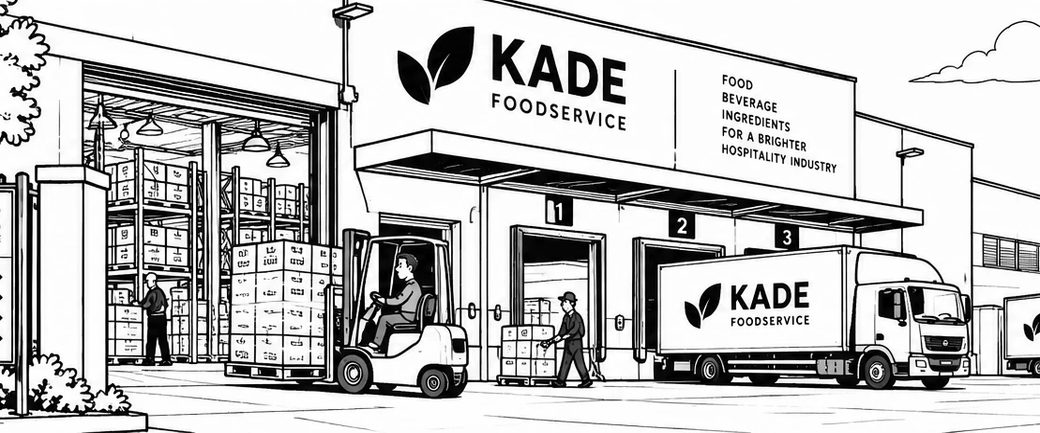
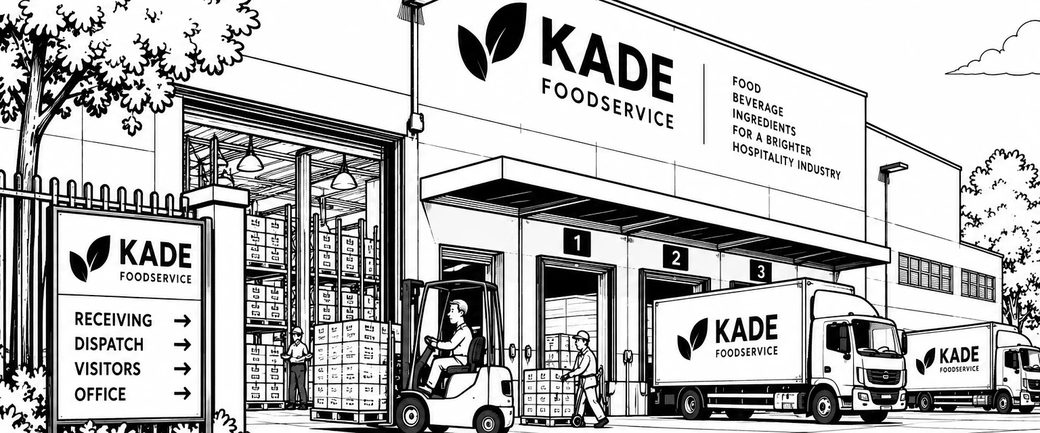
Slide 3: re-crop Kade from the full B&W drawing; keep full originals
Adds assets/places/*-full.jpg for reuse in the prototype and later slides;
image URLs are versioned so browsers pick up the new crop.

Claude-Session: https://claude.ai/code/session_01Pii9GCWfhHRh6X8NRegDPg

diff --git a/deck/index.html b/deck/index.html
@@ -8,7 +8,7 @@
   <link rel="preconnect" href="https://fonts.googleapis.com">
   <link rel="preconnect" href="https://fonts.gstatic.com" crossorigin>
   <link href="https://fonts.googleapis.com/css2?family=Instrument+Serif:ital@1&family=Inter+Tight:wght@400;500&family=Inter:wght@400;500;600;700&display=swap" rel="stylesheet">
-  <link rel="stylesheet" href="deck.css?v=20261028g">
+  <link rel="stylesheet" href="deck.css?v=20261028h">
 </head>
 <body>
 
@@ -71,7 +71,7 @@
   <!-- 3 · Actors -->
   <section class="slide s-actors">
     <div class="place">
-      <img class="scene" src="../assets/places/olive-tree.jpg" alt="The Olive Tree restaurant, line drawing">
+      <img class="scene" src="../assets/places/olive-tree.jpg?v=2" alt="The Olive Tree restaurant, line drawing">
       <h3>The Olive Tree</h3>
       <div class="cast">
         <figure><div class="face"><img src="../assets/personas/priya.png" alt=""></div><figcaption>Priya<span>Buyer</span></figcaption></figure>
@@ -79,7 +79,7 @@
       </div>
     </div>
     <div class="place">
-      <img class="scene" src="../assets/places/kade.jpg" alt="Kade Foodservice warehouse, line drawing">
+      <img class="scene" src="../assets/places/kade.jpg?v=2" alt="Kade Foodservice warehouse, line drawing">
       <h3>Kade Foodservice <span class="runs">runs on Sana</span></h3>
       <div class="cast">
         <figure><div class="face agent"><svg class="ico"><use href="#i-agent"/></svg></div><figcaption>The agent<span>AI</span></figcaption></figure>
@@ -252,6 +252,6 @@
   <button type="button" data-nav="next" aria-label="Next slide">→</button>
 </nav>
 
-<script src="deck.js?v=20261028g"></script>
+<script src="deck.js?v=20261028h"></script>
 </body>
 </html>
